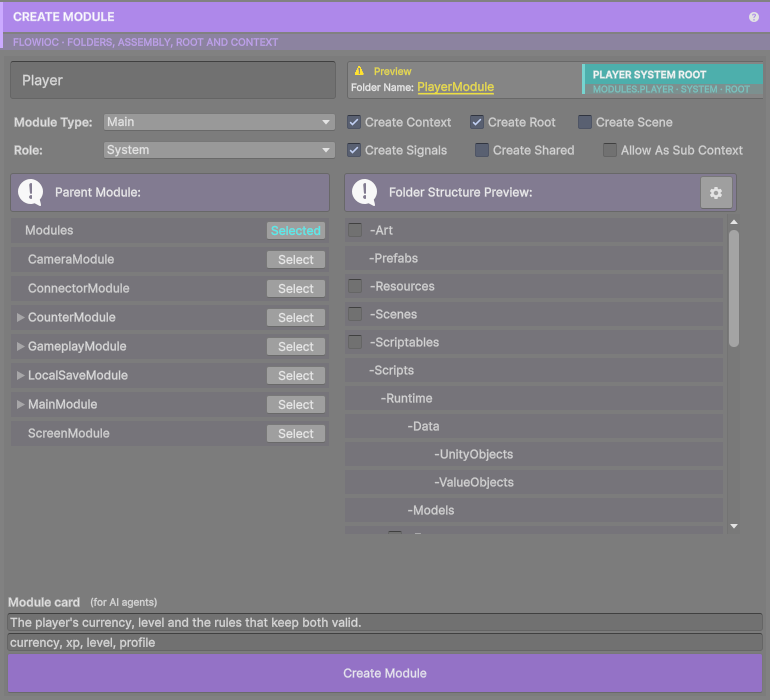
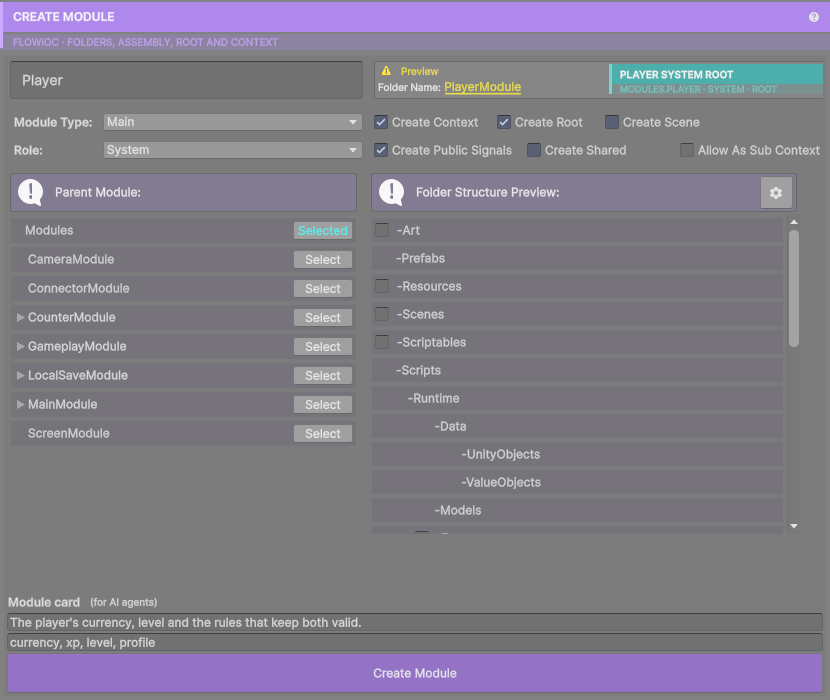
feat: the preview says which Signals folder is which, and the toggle says public
A module has a Signals folder under Scripts and another under Scripts/Runtime,
and read as names they are indistinguishable. They share the name on purpose:
the namespace segment is the folder name, so both holders land in
Modules.Player.Signals and one using reaches both. Renaming either would split
that namespace and rewrite every internal holder in every project for a folder
tree that reads slightly better.

So the Folder Structure Preview says it instead. The public row carries "the
module's public surface" and the Runtime row "what the module says to itself",
dimmed, beside the name. No other folder gets a hint - a row that explains
itself needs none, and a preview where every line carries prose is a preview
nobody reads.

The toggle is Create Public Signals. "Public" is the word doing the work: a
module has two holders and only this one crosses a boundary. Naming the halves
instead - Incoming/Outgoing - would describe the holder's shape rather than what
the tick decides, and be twice as long for it. The optional-folder toggles are
150 wide now so the three in a row still line up.

diff --git a/Editor/Help/Pages/Tools/Generators/CreateModulePage.cs b/Editor/Help/Pages/Tools/Generators/CreateModulePage.cs
@@ -61,9 +61,18 @@ namespace FlowIoC.Editor.Help.Pages.Tools.Generators
                 + "of its own is kept out of a Root's Add Sub Context list, since adding it elsewhere "
                 + "would build it a second time; this puts it back. Off by default.");
             painter.Bullet(
-                "Create Signals writes the public holder into Scripts/Signals and binds it in the "
-                + "Context. On by default, forced on for a Screen module, and not offered for a Test "
-                + "module, which wires other modules' signals rather than owning any.");
+                "Create Public Signals writes the public holder into Scripts/Signals and binds it "
+                + "in the Context. On by default, forced on for a Screen module - which generates no "
+                + "Context of its own, so the holder is the only way in - and not offered for a Test "
+                + "module, whose holder stays inside its own assembly. Untick it for a module that "
+                + "announces nothing: a Service that answers the caller it was given, or a Connector, "
+                + "which wires other modules' signals and owns none.");
+            painter.Bullet(
+                "\"Public\" is in the label because a module has two signal holders and only this "
+                + "one crosses a boundary. The other is written whether or not anything is ticked, "
+                + "and the two folders are both called Signals on purpose: the namespace segment is "
+                + "the folder name, so sharing it is what lets one using reach both holders. The "
+                + "Folder Structure Preview says which row is which.");
             painter.Bullet(
                 "Create Shared adds the assembly a module publishes its data through. Off by "
                 + "default: a module that hands no data to anyone has no use for it.");
@@ -75,7 +84,7 @@ namespace FlowIoC.Editor.Help.Pages.Tools.Generators
                 + "Structure Preview beside them shows exactly what will be written.");
 
             painter.Note(
-                "Important: Create Signals and Create Shared are offered on the day the module is "
+                "Important: Create Public Signals and Create Shared are offered on the day the module is "
                 + "created and never again. A module that turns out to need either later is not "
                 + "stuck - Add Shared or Signals writes the same thing into a module that already "
                 + "exists.");

diff --git a/Tests/Editor/FolderPreviewHintsTests.cs b/Tests/Editor/FolderPreviewHintsTests.cs
@@ -1,0 +1,58 @@
+using FlowIoC.Editor.CodeGenerator.Menus.Module;
+using FlowIoC.Editor.Config.ModuleConfig;
+using NUnit.Framework;
+
+namespace FlowIoC.Tests
+{
+    /// <summary>
+    /// A module has a Signals folder under Scripts and another under Scripts/Runtime, and read as
+    /// names they are indistinguishable. They share the name on purpose - the namespace segment is
+    /// the folder name, and sharing it is what lets one using reach both holders - so the answer is
+    /// not to rename either one but to say on the row which is which.
+    /// </summary>
+    public class FolderPreviewHintsTests
+    {
+        private readonly FolderPreviewHints _hints = new FolderPreviewHints();
+
+        private static FolderEVO Folder(FolderEVO.FolderType type) => new FolderEVO {Type = type};
+
+        [Test]
+        public void The_public_Signals_folder_says_it_is_the_public_surface()
+        {
+            StringAssert.Contains("public", _hints.For(Folder(FolderEVO.FolderType.PublicSignals)));
+        }
+
+        [Test]
+        public void The_Runtime_Signals_folder_says_it_is_the_modules_own_traffic()
+        {
+            StringAssert.Contains("itself", _hints.For(Folder(FolderEVO.FolderType.Signals)));
+        }
+
+        [Test]
+        public void The_two_do_not_read_the_same()
+        {
+            Assert.AreNotEqual(
+                _hints.For(Folder(FolderEVO.FolderType.PublicSignals)),
+                _hints.For(Folder(FolderEVO.FolderType.Signals)));
+        }
+
+        /// <summary>
+        /// A row that explains itself needs no hint, and a preview where every line carries prose
+        /// is a preview nobody reads.
+        /// </summary>
+        [TestCase(FolderEVO.FolderType.Shared)]
+        [TestCase(FolderEVO.FolderType.Models)]
+        [TestCase(FolderEVO.FolderType.Editor)]
+        [TestCase(FolderEVO.FolderType.Folder)]
+        public void A_folder_whose_name_is_answer_enough_gets_none(FolderEVO.FolderType type)
+        {
+            Assert.IsNull(_hints.For(Folder(type)));
+        }
+
+        [Test]
+        public void No_folder_at_all_gets_none()
+        {
+            Assert.IsNull(_hints.For(null));
+        }
+    }
+}

diff --git a/Editor/CodeGenerator/Menus/Module/FolderPreviewHints.cs b/Editor/CodeGenerator/Menus/Module/FolderPreviewHints.cs
@@ -1,0 +1,42 @@
+#if UNITY_EDITOR
+
+using System.Collections.Generic;
+using FlowIoC.Editor.Config.ModuleConfig;
+
+namespace FlowIoC.Editor.CodeGenerator.Menus.Module
+{
+    /// <summary>
+    /// The half-sentence a folder row in the Create Module preview carries beside its name, for the
+    /// folders whose name alone does not say what they are for.
+    ///
+    /// Two do, and they are the same two: a module has a `Signals` folder under `Scripts` and
+    /// another under `Scripts/Runtime`, and read as names they are indistinguishable. They are not
+    /// the same thing at all - one is the module's public surface and the other is what the module
+    /// says to its own commands - and the folders share a name on purpose, because the namespace
+    /// segment is the folder name and sharing it is what lets one `using` reach both holders.
+    ///
+    /// So the answer is not to rename either folder. It is to say, on the row, which is which.
+    ///
+    /// Every other folder is left without a hint. A row that explains itself does not need one, and
+    /// a preview where every line carries prose is a preview nobody reads.
+    /// </summary>
+    internal class FolderPreviewHints
+    {
+        private static readonly Dictionary<FolderEVO.FolderType, string> Hints =
+            new Dictionary<FolderEVO.FolderType, string>
+            {
+                {FolderEVO.FolderType.PublicSignals, "the module's public surface"},
+                {FolderEVO.FolderType.Signals, "what the module says to itself"}
+            };
+
+        /// <summary>The hint for this folder, or null when the folder's name is answer enough.</summary>
+        internal string For(FolderEVO folder)
+        {
+            if (folder == null) return null;
+
+            return Hints.TryGetValue(folder.Type, out string hint) ? hint : null;
+        }
+    }
+}
+
+#endif

diff --git a/Editor/CodeGenerator/Menus/Module/CreateModule/CreateModuleMenu.cs b/Editor/CodeGenerator/Menus/Module/CreateModule/CreateModuleMenu.cs
@@ -24,7 +24,18 @@ namespace FlowIoC.Editor.CodeGenerator.Menus.Module.CreateModule
         private const string SCREEN_SETTINGS_LABEL = "Screen Settings:";
 
         private const string CREATE_SHARED_LABEL = "Create Shared";
-        private const string CREATE_SIGNALS_LABEL = "Create Signals";
+
+        // "Public" is the word doing the work. A module has two signal holders and only this one
+        // crosses a boundary; the other is written whether or not anybody ticks anything. Naming
+        // the halves instead - Incoming/Outgoing - would describe the holder's shape rather than
+        // what the tick decides, and would be twice as long for it.
+        private const string CREATE_SIGNALS_LABEL = "Create Public Signals";
+
+        /// <summary>
+        /// How wide an optional-folder toggle is drawn. Wide enough for the longest of them, so the
+        /// three in a row line up: a per-label width would leave the second column ragged.
+        /// </summary>
+        private const float TOGGLE_WIDTH = 150f;
 
         private const string NEW_ACTION = "NewAction";
         private const string ADD_ACTION = "Add Action";
@@ -144,6 +155,7 @@ namespace FlowIoC.Editor.CodeGenerator.Menus.Module.CreateModule
         private readonly ModuleRoleNaming _roleNaming = new();
 
         private readonly FlowHeaderBar _bar = new FlowHeaderBar(new FlowPalette(), new FlowHelpPageMap());
+        private readonly FolderPreviewHints _previewHints = new FolderPreviewHints();
 
         private bool _createRoot;
         private bool _createContext;

diff --git a/Editor/CodeGenerator/Menus/Module/CreateModule/CreateModuleMenu.Preview.cs b/Editor/CodeGenerator/Menus/Module/CreateModule/CreateModuleMenu.Preview.cs
@@ -131,8 +131,28 @@ namespace FlowIoC.Editor.CodeGenerator.Menus.Module.CreateModule
                 GUILayout.Space(-15);
 
             EditorGUILayout.LabelField(text, GUILayout.Width(200));
+
+            DrawHint(_previewHints.For(folder));
+
             GUILayout.FlexibleSpace();
             EditorGUILayout.EndHorizontal();
+        }
+
+        /// <summary>
+        /// What a folder is for, beside its name, for the two rows whose name alone does not say.
+        /// Dimmed, because it is an aside: the reader is here to pick folders, and the hint is only
+        /// there for the moment they wonder which Signals is which.
+        /// </summary>
+        private void DrawHint(string hint)
+        {
+            if (string.IsNullOrEmpty(hint)) return;
+
+            Color previous = GUI.color;
+            GUI.color = new Color(previous.r, previous.g, previous.b, 0.5f);
+
+            GUILayout.Label(hint, EditorStyles.miniLabel);
+
+            GUI.color = previous;
         }
 
         /// <summary>

diff --git a/Editor/CodeGenerator/Menus/Module/CreateModule/CreateModuleMenu.UI.cs b/Editor/CodeGenerator/Menus/Module/CreateModule/CreateModuleMenu.UI.cs
@@ -522,7 +522,7 @@ namespace FlowIoC.Editor.CodeGenerator.Menus.Module.CreateModule
             {
                 using (new EditorGUI.DisabledScope(true))
                 {
-                    EditorGUILayout.ToggleLeft(label, true, GUILayout.Width(125));
+                    EditorGUILayout.ToggleLeft(label, true, GUILayout.Width(TOGGLE_WIDTH));
                 }
 
                 isSelected = true;
@@ -530,7 +530,7 @@ namespace FlowIoC.Editor.CodeGenerator.Menus.Module.CreateModule
             else
             {
                 bool wasSelected = _selectedOptionalFolders.Contains(folder);
-                bool nowSelected = EditorGUILayout.ToggleLeft(label, wasSelected, GUILayout.Width(125));
+                bool nowSelected = EditorGUILayout.ToggleLeft(label, wasSelected, GUILayout.Width(TOGGLE_WIDTH));
 
                 if (nowSelected && !wasSelected)
                 {
